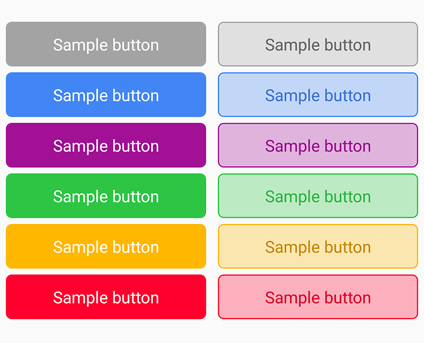
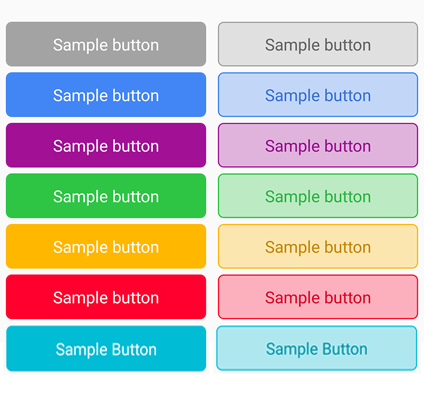
- Fix button indicator color bug - New color "aqua" for button

diff --git a/Component/Button.js b/Component/Button.js
@@ -13,7 +13,8 @@ const Button = ({onPress, title, isLoading, disable, style, textStyle, indicator
         >
             {isLoading ?
                 <ActivityIndicator
-                    color={indicatorColor ? indicatorColor : {color: colorPicker(status).textColor}} size={'small'}/>
+                    color={indicatorColor ? indicatorColor :
+                        isLinear ? colorPicker(status).textColor : '#fff'} size={'small'}/>
                 :
                 <Text style={[styles.textStyle, {
                     color: isLinear ? colorPicker(status).textColor : '#fff',
@@ -35,6 +36,8 @@ function colorPicker(status) {
             return {color: '#FFB700', opacityColor: 'rgba(255,183,0,0.3)', textColor: '#c68800'};
         case 'danger':
             return {color: '#FF002E', opacityColor: 'rgba(255,0,46,0.3)', textColor: '#dd002c'};
+        case 'aqua':
+            return {color: '#00bcd4', opacityColor: 'rgba(0,188,212,0.3)', textColor: '#0295a7'};
         default :
             return {color: '#A3A3A3', opacityColor: 'rgba(163,163,163,0.3)', textColor: '#666666'};
     }

diff --git a/README.md b/README.md
@@ -7,14 +7,24 @@ UI for using in your react native projects (Android and IOS).
 ## Install
 
 ```shell
-npm i -S react-native-master-ui
+npm i react-native-master-ui
+```
+ or
+ 
+```shell
+yarn add react-native-master-ui
 ```
 
 Then
 
 ```shell
-npm i -S react-native-vector-icons
-react-native link react-native-vector-icons
+npm i react-native-vector-icons
+react-native link
+```
+ or
+```shell
+yarn add react-native-vector-icons
+react-native link
 ```
 
 ## Simple Usage
@@ -36,7 +46,7 @@ export default class App extends Component {
 }
 ```
 
-![Accordion](https://github.com/gharivand/react-native-master-ui/blob/master/screenshots/Accordion.png)
+![Accordion](https://raw.githubusercontent.com/gharivand/react-native-master-ui/master/screenshots/Accordion.png)
 
 ## Accordion Props
 
@@ -88,7 +98,7 @@ export default class App extends Component {
 }
 ```
 
-![Buttons](https://github.com/gharivand/react-native-master-ui/blob/master/screenshots/Buttons.png)
+![Buttons](https://raw.githubusercontent.com/gharivand/react-native-master-ui/master/screenshots/Buttons.png)
 
 
 ## Button Props
@@ -98,7 +108,7 @@ Prop                  | Type         | Default                   | Description
 onPress               | function()   | undefine                  | The job you want to happen after click.
 title                 | string       | null                      | Title on the Button.
 textStyle             | object       | {}                        | Add your custom style for title.
-status                | string       | null                      | Can be one of: "info","info2","success","warning","danger"
+status                | string       | null                      | Can be one of: "info","info2","success","warning","danger","aqua"
 style                 | object       | {}                        | Add your custom style for button.
 isLinear              | isLinear     | false                     | Show button with border and opacity background color.
 disable               | boolean      | false                     | Button not working when click if disable is true.
@@ -138,7 +148,7 @@ export default class App extends Component {
 ```
 
 
-![CardView](https://github.com/gharivand/react-native-master-ui/blob/master/screenshots/CardView.png)
+![CardView](https://raw.githubusercontent.com/gharivand/react-native-master-ui/master/screenshots/CardView.png)
 
 
 ## CardView Props
@@ -205,7 +215,7 @@ export default class App extends Component {
 ```
 
 
-![ListItem](https://github.com/gharivand/react-native-master-ui/blob/master/screenshots/ListItem.png)
+![ListItem](https://raw.githubusercontent.com/gharivand/react-native-master-ui/master/screenshots/ListItem.png)
 
 
 ## ListItem Props
@@ -266,7 +276,7 @@ export default class App extends Component {
 ```
 
 
-![StarRate](https://github.com/gharivand/react-native-master-ui/blob/master/screenshots/StarRate.png)
+![StarRate](https://raw.githubusercontent.com/gharivand/react-native-master-ui/master/screenshots/StarRate.png)
 
 
 ## StarsRate Props
